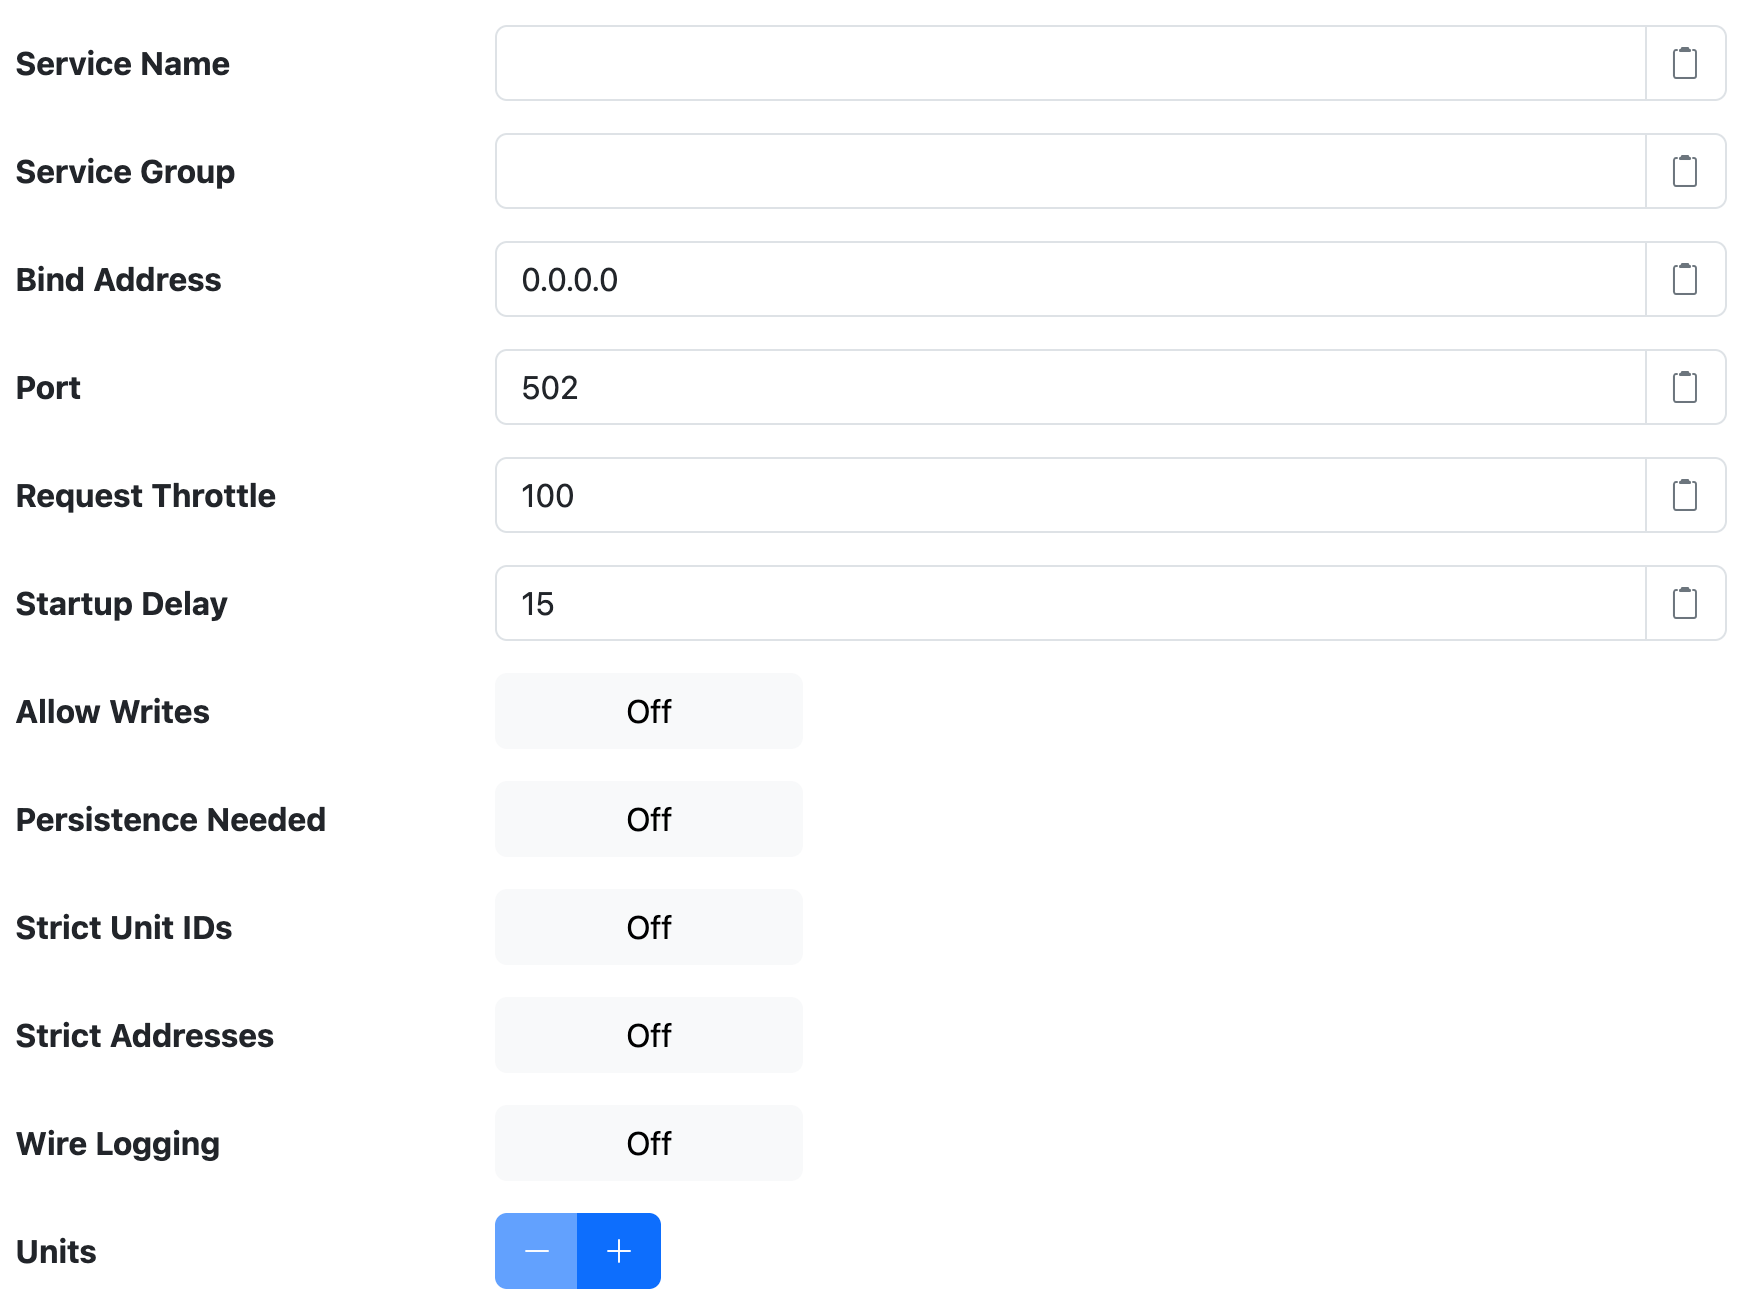
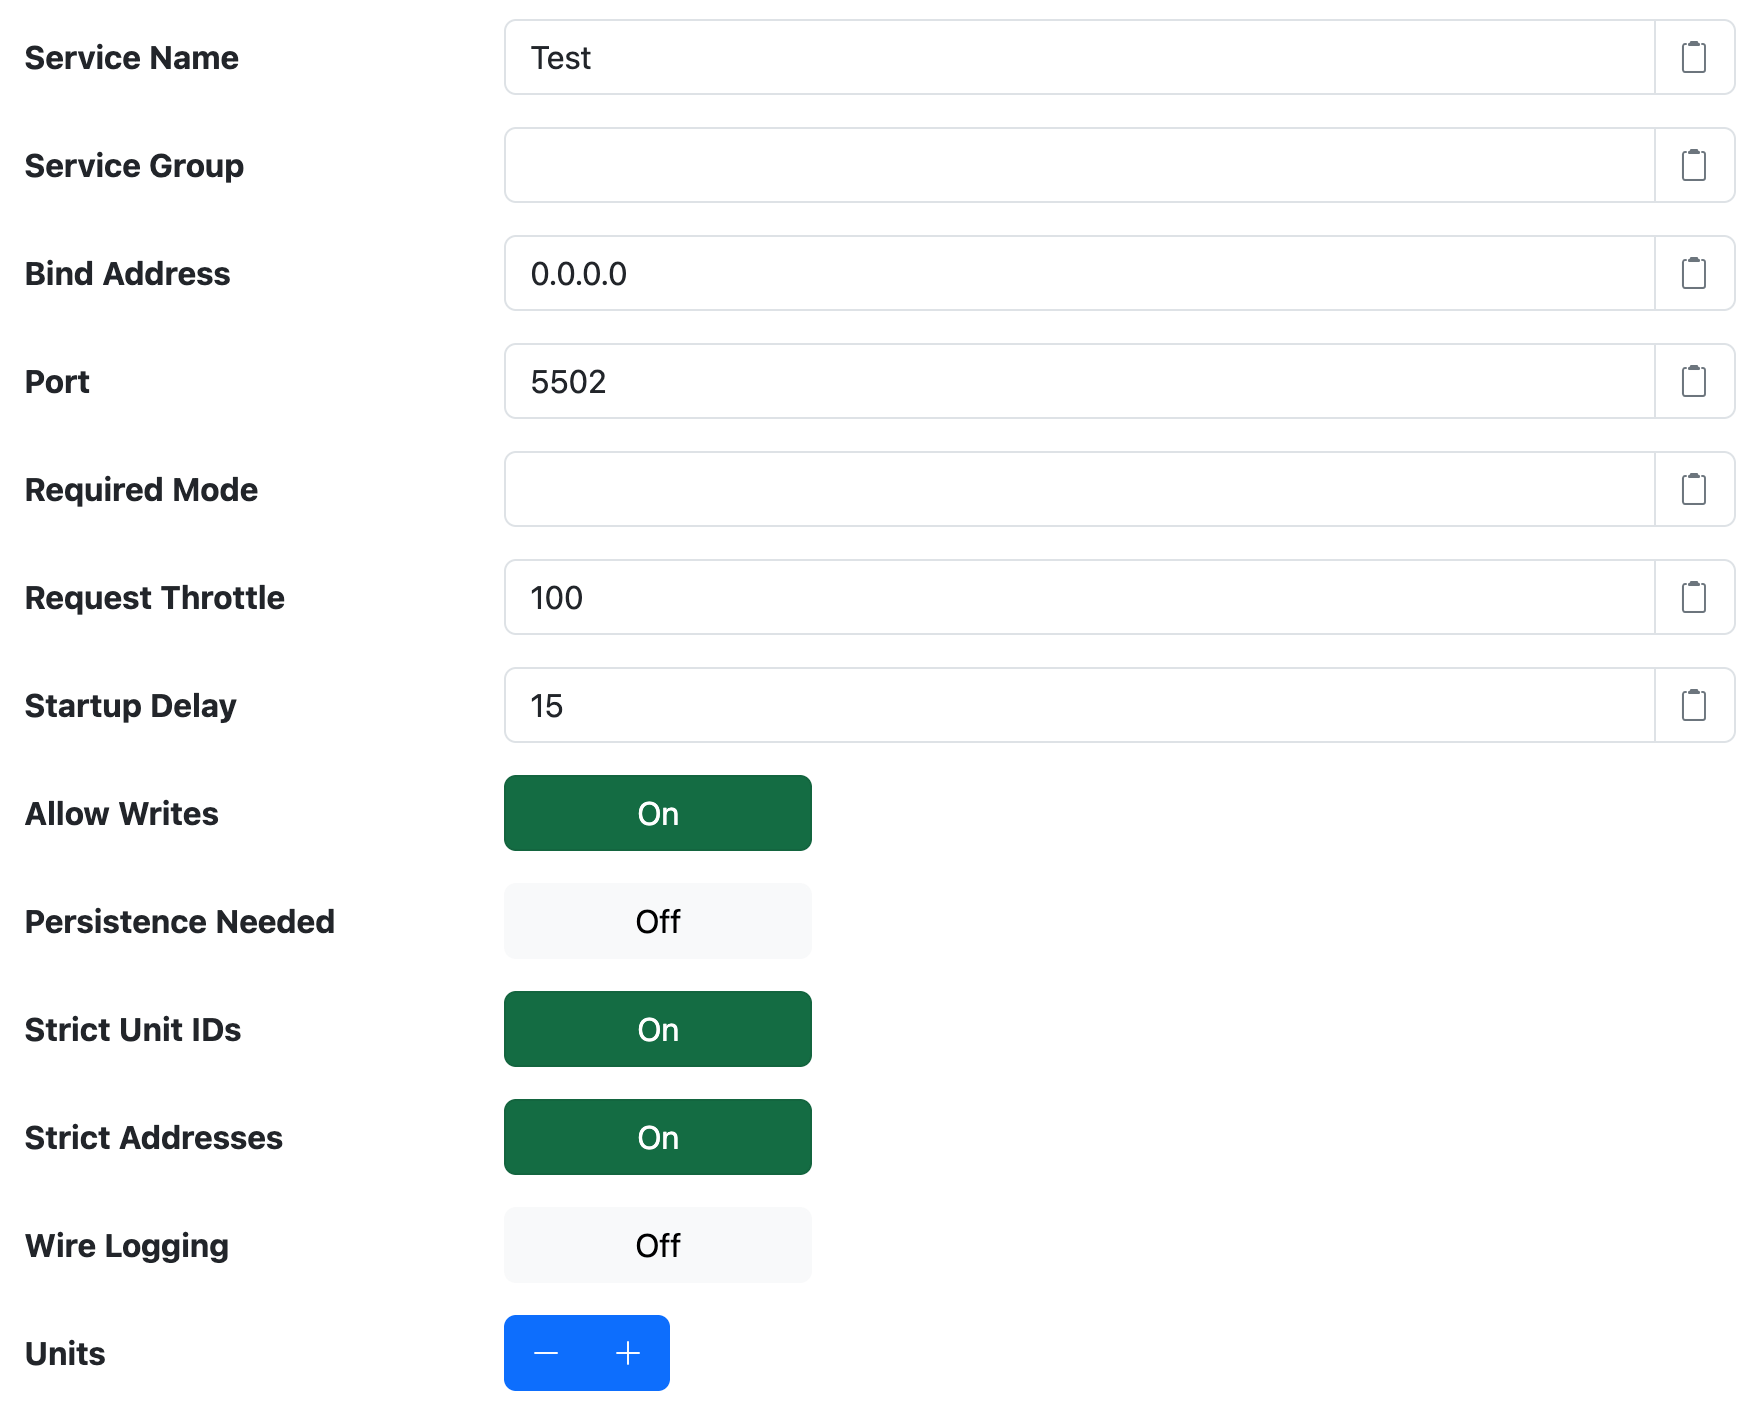
Update Modbus Server docs.

diff --git a/docs/users/io/modbus-server.md b/docs/users/io/modbus-server.md
@@ -168,6 +168,7 @@ settings for the Modbus Service component:
 | Service Name | `uid` | Arbitrary string |
 | Service Group | `groupUid` | Arbitrary string |
 | Startup Delay | `startupDelay` | Number (seconds) |
+| Required Mode | `requiredOperationalMode` | String mode name |
 | Allow Writes | `allowWrites` | Either `true` or `false` |
 | Persistence Needed | `daoRequired` | Either `true` or `false` |
 | Strict Unit IDs | `restrictUnitIds` | Either `true` or `false` |
@@ -200,7 +201,7 @@ To manage RTU or TCP server configurations in the SolarNode UI, the settings in 
 The RTU server configuration defines the serial port to use.
 
 <figure markdown>
-  ![RTU server settings](../../images/users/io/modbus-rtu-server-settings@2x.png){width=872 loading=lazy}
+  ![RTU server settings](../../images/users/io/modbus-rtu-server-settings@2x.png){width=876 loading=lazy}
 </figure>
 
 Each server configuration contains the following settings:
@@ -210,6 +211,7 @@ Each server configuration contains the following settings:
 | Service Name       | A unique name to identify this data source with. |
 | Service Group      | A group name to associate this data source with. |
 | Serial Connection  | The **Service Name** of the Modbus Serial Connection component to use. |
+| Required Mode      | Require an active [operational mode][op-modes] to apply datum updates. Does not apply to control updates. Can be prefixed with `!` to require the operational mode to **not** be active. |
 | Request Throttle   | A number of **milliseconds** to limit client requests by. |
 | Startup Delay      | A number of **seconds** to delay starting up the server after the plugin starts, after any configuration change, or after any message validation failure. |
 | Allow Writes       | If enabled, then allow Modbus clients to write to coil and output registers. |
@@ -224,7 +226,7 @@ Each server configuration contains the following settings:
 The TCP server configuration defines the port number and address to listen on.
 
 <figure markdown>
-  ![TCP server settings](../../images/users/io/modbus-tcp-server-settings@2x.png){width=872 loading=lazy}
+  ![TCP server settings](../../images/users/io/modbus-tcp-server-settings@2x.png){width=876 loading=lazy}
 </figure>
 
 Each server configuration contains the following settings:
@@ -235,6 +237,7 @@ Each server configuration contains the following settings:
 | Service Group      | A group name to associate this data source with. |
 | Bind Address       | The IP address or host name to listen on. Set to `0.0.0.0` to listen on all available addresses. |
 | Port               | The port number to listen on. The default Modbus port is `502`. See [port considerations](#solarnodeos-port-considerations) for more info. |
+| Required Mode      | Require an active [operational mode][op-modes] to apply datum updates. Does not apply to control updates. Can be prefixed with `!` to require the operational mode to **not** be active. |
 | Request Throttle   | A number of milliseconds to limit client requests by. |
 | Startup Delay      | A number of **seconds** to delay starting up the server after the plugin starts, after any configuration change. |
 | Allow Writes       | If enabled, then allow Modbus clients to write to coil and output registers. |
@@ -366,6 +369,7 @@ the source ID and/or property name:
 [modbus-server]: https://github.com/SolarNetwork/solarnetwork-node/tree/develop/net.solarnetwork.node.io.modbus.server
 [modbus-server-pkg]: https://github.com/SolarNetwork/solarnode-os-packages/tree/develop/solarnode-app-io-modbus-server/debian
 [node-controls-ui]: ../setup-app/tools/controls.md
+[op-modes]: https://solarnetwork.github.io/solarnode-handbook/users/op-modes/
 [services]: ../setup-app/settings/services.md
 [SetControlParameter]: https://github.com/SolarNetwork/solarnetwork/wiki/SolarUser-API-enumerated-types#setcontrolparameter
 [sheet-example-rtu]: https://docs.google.com/spreadsheets/d/1e3yqWtH7D_eGF_mWyQd7qeH8xoojN-RJhgUwClrHPTY
